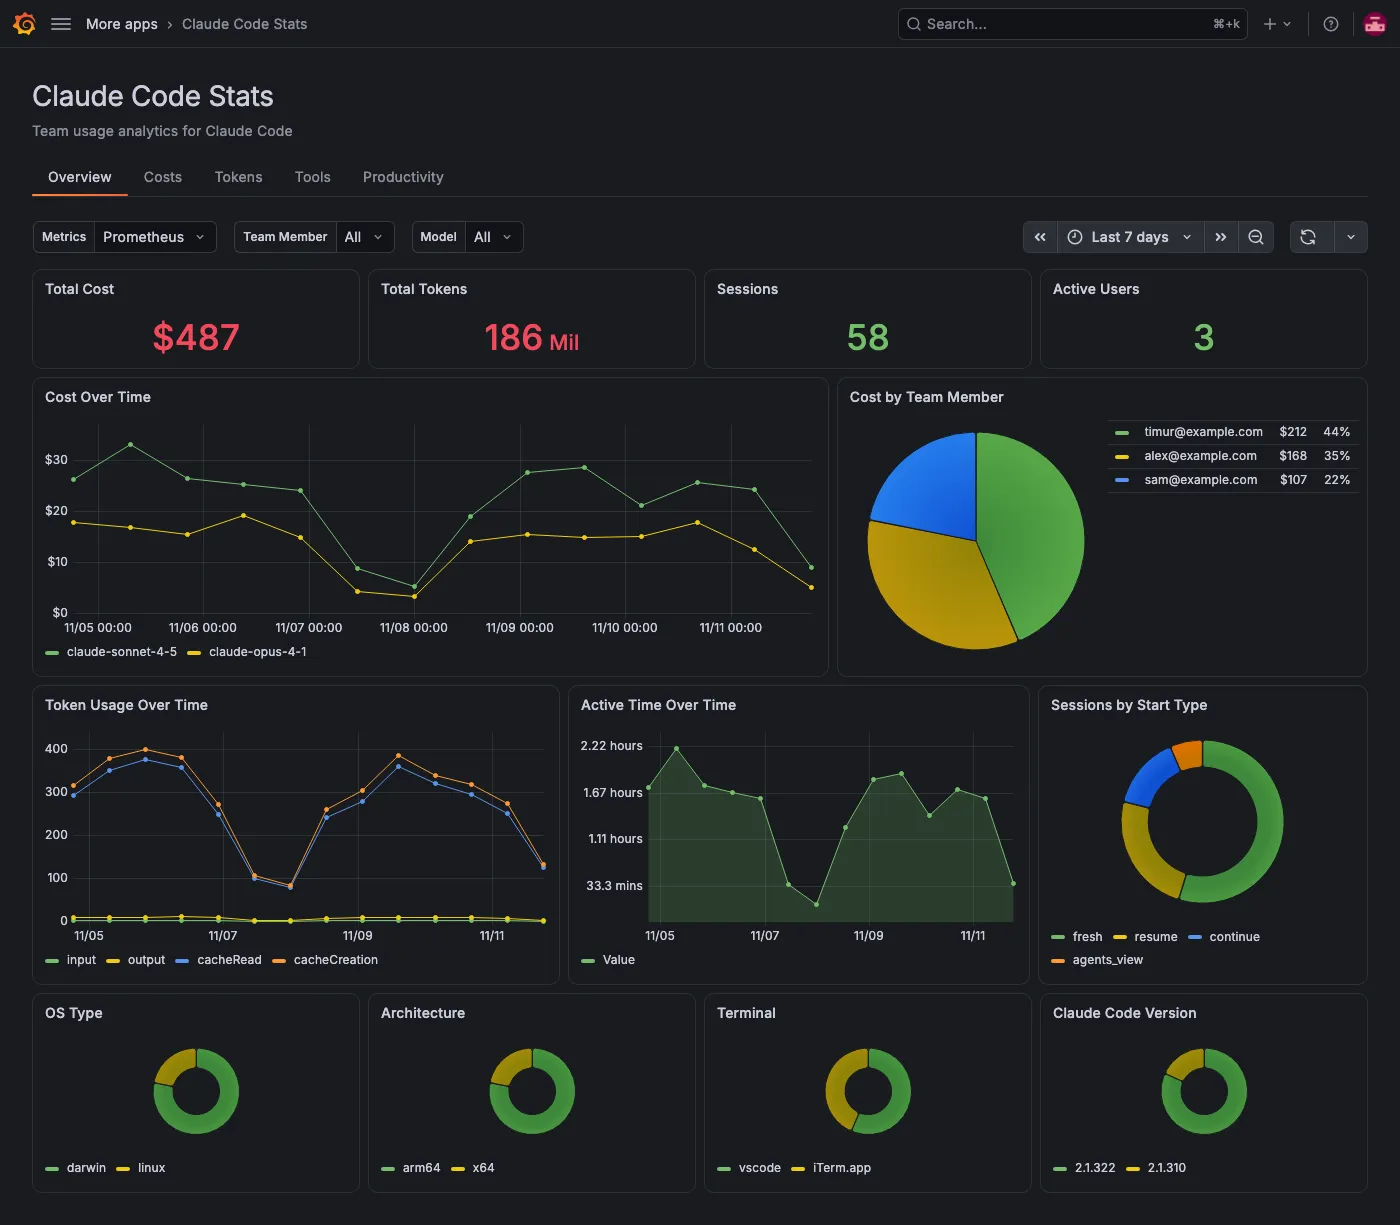
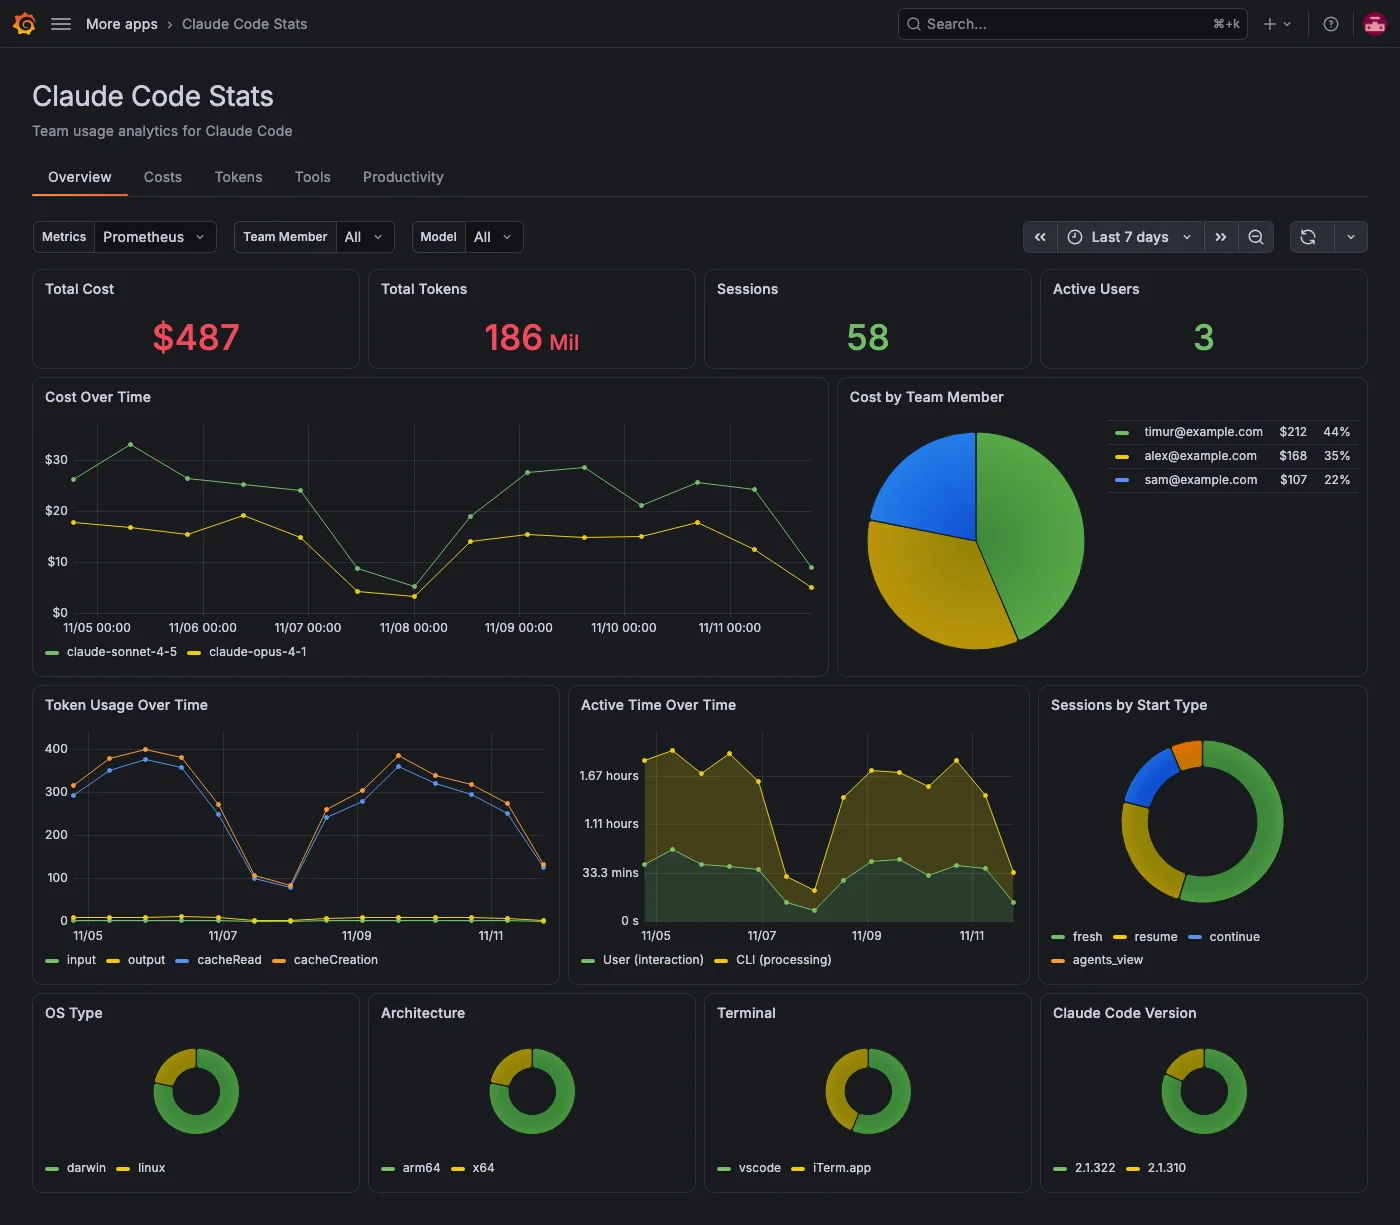
feat: split active time into user vs CLI (#33) (#66)
* feat: split active time into user vs CLI (#33)

The active_time metric's type label distinguishes user (interaction) from
cli (tool execution and response generation) time; we summed both.

- Overview: Active Time Over Time stacks User and CLI series
- Productivity: new 'Active Time: User vs CLI' donut next to by-member
- e2e mocks/specs cover both panels; catalog docs updated

Closes #33

* docs: refresh Overview and Productivity screenshots; only update docs when it makes sense

- Recapture overview.webp and productivity.webp from the e2e mocks to show
  the user vs CLI active-time split
- AGENTS.md/CLAUDE.md: update docs only when a change matters to readers,
  and recapture screenshots when a change visibly alters a page

diff --git a/src/scenes/pages/ProductivityScene.ts b/src/scenes/pages/ProductivityScene.ts
@@ -19,7 +19,7 @@ import {
   BarGaugeValueMode,
   VizOrientation,
 } from '@grafana/schema';
-import { QUERIES, Queries } from '../queries';
+import { ACTIVE_TIME_TYPE_NAMES, QUERIES, Queries } from '../queries';
 import { getControlsWithoutModel } from '../variables';
 import { PANEL_HEIGHTS } from '../../constants';
 
@@ -113,6 +113,18 @@ export function getProductivityScene(
         refId: 'PullRequestsOverTime',
         expr: queries.pullRequestsOverTime,
         legendFormat: 'Pull requests',
+      },
+    ],
+  });
+
+  const activeTimeByTypeQuery = new SceneQueryRunner({
+    datasource: { type: 'prometheus', uid: '${prometheus_ds}' },
+    queries: [
+      {
+        refId: 'ActiveTimeByType',
+        expr: queries.activeTimeByType,
+        legendFormat: '{{type}}',
+        instant: true,
       },
     ],
   });
@@ -243,12 +255,35 @@ export function getProductivityScene(
             }),
           ],
         }),
-        // Row 4: Active time by member
+        // Row 4: Active time split (user vs CLI) and by member
         new SceneFlexLayout({
           direction: 'row',
           height: PANEL_HEIGHTS.LARGE,
           children: [
             new SceneFlexItem({
+              width: '35%',
+              body: PanelBuilders.piechart()
+                .setTitle('Active Time: User vs CLI')
+                .setDescription(
+                  'User is time spent interacting (typing). CLI is time Claude Code spends running tools and generating responses.'
+                )
+                .setUnit('s')
+                .setData(activeTimeByTypeQuery)
+                .setOption('legend', {
+                  displayMode: LegendDisplayMode.Table,
+                  placement: 'right',
+                  values: ['value', 'percent'] as never,
+                })
+                .setOption('pieType', 'donut' as never)
+                .setOverrides((b) => {
+                  for (const [type, name] of Object.entries(ACTIVE_TIME_TYPE_NAMES)) {
+                    b.matchFieldsWithName(type).overrideDisplayName(name);
+                  }
+                })
+                .build(),
+            }),
+            new SceneFlexItem({
+              width: '65%',
               body: PanelBuilders.bargauge()
                 .setTitle('Active Time by Team Member')
                 .setUnit('s')

diff --git a/tests/mocks/prometheus.ts b/tests/mocks/prometheus.ts
@@ -18,6 +18,8 @@ export const MODELS = ['claude-sonnet-4-5', 'claude-opus-4-1'] as const;
 export const MEMBERS = ['timur@example.com', 'alex@example.com', 'sam@example.com'] as const;
 export const TOKEN_TYPES = ['input', 'output', 'cacheRead', 'cacheCreation'] as const;
 export const LOC_TYPES = ['added', 'removed'] as const;
+// `type` label on the active-time metric, and how the panels display it.
+export const ACTIVE_TIME_TYPES = { user: 'User (interaction)', cli: 'CLI (processing)' } as const;
 export const DECISIONS = ['accept', 'reject'] as const;
 // The code-edit decision metric only covers these tools.
 export const TOOLS = ['Edit', 'Write', 'NotebookEdit'] as const;
@@ -94,6 +96,8 @@ const DECISIONS_BY_TOOL = { Edit: 402, Write: 151, NotebookEdit: 31 };
 const LINES_BY_TYPE = { added: 4820, removed: 1960 };
 // Active time in seconds (20 hours across the team).
 const ACTIVE_TIME_BY_MEMBER = { [MEMBERS[0]]: 30600, [MEMBERS[1]]: 25200, [MEMBERS[2]]: 16200 };
+// The same 20 hours split into interaction (user) and processing (cli) time.
+const ACTIVE_TIME_BY_TYPE = { user: 27000, cli: 45000 };
 
 // Scalar values rendered by stat panels.
 export const SCALARS = {
@@ -288,7 +292,7 @@ const DATASET: Record<string, FrameBuilder> = {
   TokensByEffort: (id) => instantSeriesFrames(id, 'effort', TOKENS.byEffort),
 
   // --- sessions / activity (overview) ---
-  ActiveTimeOverTime: (id, r) => rangeSeriesFrames(id, null, { total: SCALARS.TotalActiveTime }, r),
+  ActiveTimeOverTime: (id, r) => rangeSeriesFrames(id, 'type', ACTIVE_TIME_BY_TYPE, r),
   SessionsByStartType: (id) => instantSeriesFrames(id, 'start_type', SESSIONS_BY_START_TYPE),
 
   // --- environment (overview, weighted by cost) ---
@@ -307,6 +311,7 @@ const DATASET: Record<string, FrameBuilder> = {
   LinesOfCodeOverTime: (id, r) => rangeSeriesFrames(id, 'type', LINES_BY_TYPE, r),
   CommitsOverTime: (id, r) => rangeSeriesFrames(id, null, { total: SCALARS.TotalCommits }, r),
   PullRequestsOverTime: (id, r) => rangeSeriesFrames(id, null, { total: SCALARS.TotalPullRequests }, r),
+  ActiveTimeByType: (id) => instantSeriesFrames(id, 'type', ACTIVE_TIME_BY_TYPE),
   ActiveTimeByMember: (id) => instantSeriesFrames(id, 'user_email', ACTIVE_TIME_BY_MEMBER),
 };
 

diff --git a/src/scenes/pages/OverviewScene.ts b/src/scenes/pages/OverviewScene.ts
@@ -12,7 +12,7 @@ import {
   SceneRefreshPicker,
 } from '@grafana/scenes';
 import { BigValueGraphMode, LegendDisplayMode, StackingMode } from '@grafana/schema';
-import { QUERIES, Queries } from '../queries';
+import { ACTIVE_TIME_TYPE_NAMES, QUERIES, Queries } from '../queries';
 import { PANEL_HEIGHTS } from '../../constants';
 
 export function getOverviewScene(
@@ -105,7 +105,7 @@ export function getOverviewScene(
       {
         refId: 'ActiveTimeOverTime',
         expr: queries.activeTimeOverTime,
-        legendFormat: 'Active time',
+        legendFormat: '{{type}}',
       },
     ],
   });
@@ -273,7 +273,14 @@ export function getOverviewScene(
                 .setTitle('Active Time Over Time')
                 .setUnit('s')
                 .setData(activeTimeOverTimeQuery)
+                .setOption('legend', { displayMode: LegendDisplayMode.List, placement: 'bottom' })
+                .setCustomFieldConfig('stacking', { mode: StackingMode.Normal })
                 .setCustomFieldConfig('fillOpacity', 20)
+                .setOverrides((b) => {
+                  for (const [type, name] of Object.entries(ACTIVE_TIME_TYPE_NAMES)) {
+                    b.matchFieldsWithName(type).overrideDisplayName(name);
+                  }
+                })
                 .build(),
             }),
             new SceneFlexItem({

diff --git a/src/scenes/queries.ts b/src/scenes/queries.ts
@@ -157,8 +157,11 @@ function buildQueries(m: MetricNames) {
     /** Active time by member */
     activeTimeByMember: `sum by (${LABELS.USER_EMAIL}) (increase(${m.ACTIVE_TIME}[$__range]))`,
 
-    /** Active time over time */
-    activeTimeOverTime: `sum(increase(${m.ACTIVE_TIME}{${LABELS.USER_EMAIL}=~"$member"}[$__rate_interval]))`,
+    /** Active time split by type: user (interaction) vs cli (processing) */
+    activeTimeByType: `sum by (${LABELS.ACTIVE_TIME_TYPE}) (increase(${m.ACTIVE_TIME}{${LABELS.USER_EMAIL}=~"$member"}[$__range]))`,
+
+    /** Active time over time, split by type: user (interaction) vs cli (processing) */
+    activeTimeOverTime: `sum(increase(${m.ACTIVE_TIME}{${LABELS.USER_EMAIL}=~"$member"}[$__rate_interval])) by (${LABELS.ACTIVE_TIME_TYPE})`,
 
     // ==================== TOOL QUERIES ====================
 
@@ -191,6 +194,15 @@ function buildQueries(m: MetricNames) {
 }
 
 export type Queries = ReturnType<typeof buildQueries>;
+
+/**
+ * Display names for the `type` label values of the active-time metric.
+ * `user` is keyboard interaction, `cli` is tool execution and response generation.
+ */
+export const ACTIVE_TIME_TYPE_NAMES = {
+  user: 'User (interaction)',
+  cli: 'CLI (processing)',
+} as const;
 
 /** Build queries for a specific metric format */
 export { buildQueries };

diff --git a/tests/productivity.spec.ts b/tests/productivity.spec.ts
@@ -1,6 +1,6 @@
 import { test, expect } from './fixtures';
 import { panelByTitle, legendItem } from './mocks/panels';
-import { DISPLAY, MEMBERS, LOC_TYPES } from './mocks/prometheus';
+import { ACTIVE_TIME_TYPES, DISPLAY, MEMBERS, LOC_TYPES } from './mocks/prometheus';
 
 test.describe('Productivity scene', () => {
   test('renders the productivity stat row', async ({ mockData, gotoPage, selectors }) => {
@@ -35,6 +35,14 @@ test.describe('Productivity scene', () => {
 
     for (const member of MEMBERS) {
       await expect(panel.getByText(member, { exact: true }).first()).toBeVisible();
+    }
+  });
+
+  test('splits active time into user and CLI time', async ({ mockData, gotoPage, selectors }) => {
+    const app = await gotoPage('productivity');
+
+    for (const name of Object.values(ACTIVE_TIME_TYPES)) {
+      await expect(legendItem(app, selectors, 'Active Time: User vs CLI', name)).toBeVisible();
     }
   });
 });

diff --git a/tests/overview.spec.ts b/tests/overview.spec.ts
@@ -1,6 +1,7 @@
 import { test, expect } from './fixtures';
 import { panelByTitle, legendItem } from './mocks/panels';
 import {
+  ACTIVE_TIME_TYPES,
   DISPLAY,
   MODELS,
   MEMBERS,
@@ -38,6 +39,14 @@ test.describe('Overview scene', () => {
 
     for (const type of TOKEN_TYPES.slice(0, 3)) {
       await expect(legendItem(app, selectors, 'Token Usage Over Time', type)).toBeVisible();
+    }
+  });
+
+  test('renders active time over time split into user and CLI', async ({ mockData, gotoPage, selectors }) => {
+    const app = await gotoPage();
+
+    for (const name of Object.values(ACTIVE_TIME_TYPES)) {
+      await expect(legendItem(app, selectors, 'Active Time Over Time', name)).toBeVisible();
     }
   });
 

diff --git a/src/constants.ts b/src/constants.ts
@@ -53,6 +53,7 @@ export const LABELS = {
   MODEL: 'model',
   TOKEN_TYPE: 'type', // input, output, cacheRead, cacheCreation
   LOC_TYPE: 'type', // added, removed
+  ACTIVE_TIME_TYPE: 'type', // user (keyboard interaction), cli (tool execution and responses)
   SESSION_ID: 'session_id',
   START_TYPE: 'start_type', // fresh, resume, continue, agents_view
   TOOL: 'tool_name',

diff --git a/catalog-docs/features/overview.md b/catalog-docs/features/overview.md
@@ -26,13 +26,13 @@ Cost is the estimate Claude Code reports. For billing data, use your Anthropic o
 
 ## See trends over time
 
-| Panel                      | What it shows                                                                                |
-| -------------------------- | -------------------------------------------------------------------------------------------- |
-| **Cost Over Time**         | Cost per interval, one series per model.                                                     |
-| **Cost by Team Member**    | Each member's share of cost.                                                                 |
-| **Token Usage Over Time**  | Token rate per second, one series per token type.                                            |
-| **Active Time Over Time**  | Time spent actively using Claude Code, including typing and waiting for responses and tools. |
-| **Sessions by Start Type** | Sessions by how they started: `fresh`, `resume`, `continue` or `agents_view`.                |
+| Panel                      | What it shows                                                                                                             |
+| -------------------------- | ------------------------------------------------------------------------------------------------------------------------- |
+| **Cost Over Time**         | Cost per interval, one series per model.                                                                                  |
+| **Cost by Team Member**    | Each member's share of cost.                                                                                              |
+| **Token Usage Over Time**  | Token rate per second, one series per token type.                                                                         |
+| **Active Time Over Time**  | Active time per interval, stacked as User (interaction, such as typing) and CLI (running tools and generating responses). |
+| **Sessions by Start Type** | Sessions by how they started: `fresh`, `resume`, `continue` or `agents_view`.                                             |
 
 ## Check your team's environment
 

diff --git a/catalog-docs/features/productivity.md b/catalog-docs/features/productivity.md
@@ -28,10 +28,13 @@ Panels show no data when nothing happened in the period, such as no commits.
 
 ## Track active time
 
-| Panel                          | What it shows                                                                                                                                                  |
-| ------------------------------ | -------------------------------------------------------------------------------------------------------------------------------------------------------------- |
-| **Active Time**                | Time spent actively using Claude Code, not counting idle time. It includes both typing and the time Claude Code spends running tools and generating responses. |
-| **Active Time by Team Member** | Active time per member.                                                                                                                                        |
+Claude Code records active time in two parts: **User** is time spent interacting, such as typing, and **CLI** is time Claude Code spends running tools and generating responses.
+
+| Panel                          | What it shows                                                                                     |
+| ------------------------------ | ------------------------------------------------------------------------------------------------- |
+| **Active Time**                | Time spent actively using Claude Code, not counting idle time. It's the sum of User and CLI time. |
+| **Active Time: User vs CLI**   | The split between User (interaction) and CLI (processing) time, with each part's share.           |
+| **Active Time by Team Member** | Active time per member.                                                                           |
 
 ## Filters on this tab
 

diff --git a/AGENTS.md b/AGENTS.md
@@ -6,6 +6,8 @@ Thie repository contains a **Grafana plugin**. You must Read @./.config/AGENTS/i
 
 User documentation lives in `catalog-docs/` and ships with every release as the **Documentation** tab on the plugin's catalog page. `src/README.md` is the catalog **Overview** tab.
 
-- Whenever a change adds, changes or removes something a user can see or configure (a panel, a tab, a filter, a setting, a query's behavior, a requirement), update the matching page in `catalog-docs/` **in the same change**. This includes work on GitHub issues.
+- When a change adds, changes or removes something a user can see or configure (a panel, a tab, a filter, a setting, a query's behavior, a requirement), update the matching page in `catalog-docs/` **in the same change**. This includes work on GitHub issues.
+- Only update the docs when it makes sense. Skip them when the change makes no difference a reader would notice or need to know: refactors, tests, dependency bumps, CI, or cosmetic tweaks that don't change what a panel shows or how to use it. Don't rewrite pages just to mention a change, and don't add detail the docs didn't need.
+- When a change visibly alters a page shown in a screenshot under `catalog-docs/img/`, recapture that screenshot from the e2e mock data so it matches.
 - Follow `catalog-docs/AGENTS.md`, and document only what the source actually does.
 - Run `npm run docs:validate` and fix everything it reports before you finish. A change isn't done while it reports warnings or unfilled sections.

diff --git a/CLAUDE.md b/CLAUDE.md
@@ -6,6 +6,8 @@ Thie repository contains a **Grafana plugin**. You must Read @./.config/AGENTS/i
 
 User documentation lives in `catalog-docs/` and ships with every release as the **Documentation** tab on the plugin's catalog page. `src/README.md` is the catalog **Overview** tab.
 
-- Whenever a change adds, changes or removes something a user can see or configure (a panel, a tab, a filter, a setting, a query's behavior, a requirement), update the matching page in `catalog-docs/` **in the same change**. This includes work on GitHub issues.
+- When a change adds, changes or removes something a user can see or configure (a panel, a tab, a filter, a setting, a query's behavior, a requirement), update the matching page in `catalog-docs/` **in the same change**. This includes work on GitHub issues.
+- Only update the docs when it makes sense. Skip them when the change makes no difference a reader would notice or need to know: refactors, tests, dependency bumps, CI, or cosmetic tweaks that don't change what a panel shows or how to use it. Don't rewrite pages just to mention a change, and don't add detail the docs didn't need.
+- When a change visibly alters a page shown in a screenshot under `catalog-docs/img/`, recapture that screenshot from the e2e mock data so it matches.
 - Follow `catalog-docs/AGENTS.md`, and document only what the source actually does.
 - Run `npm run docs:validate` and fix everything it reports before you finish. A change isn't done while it reports warnings or unfilled sections.
